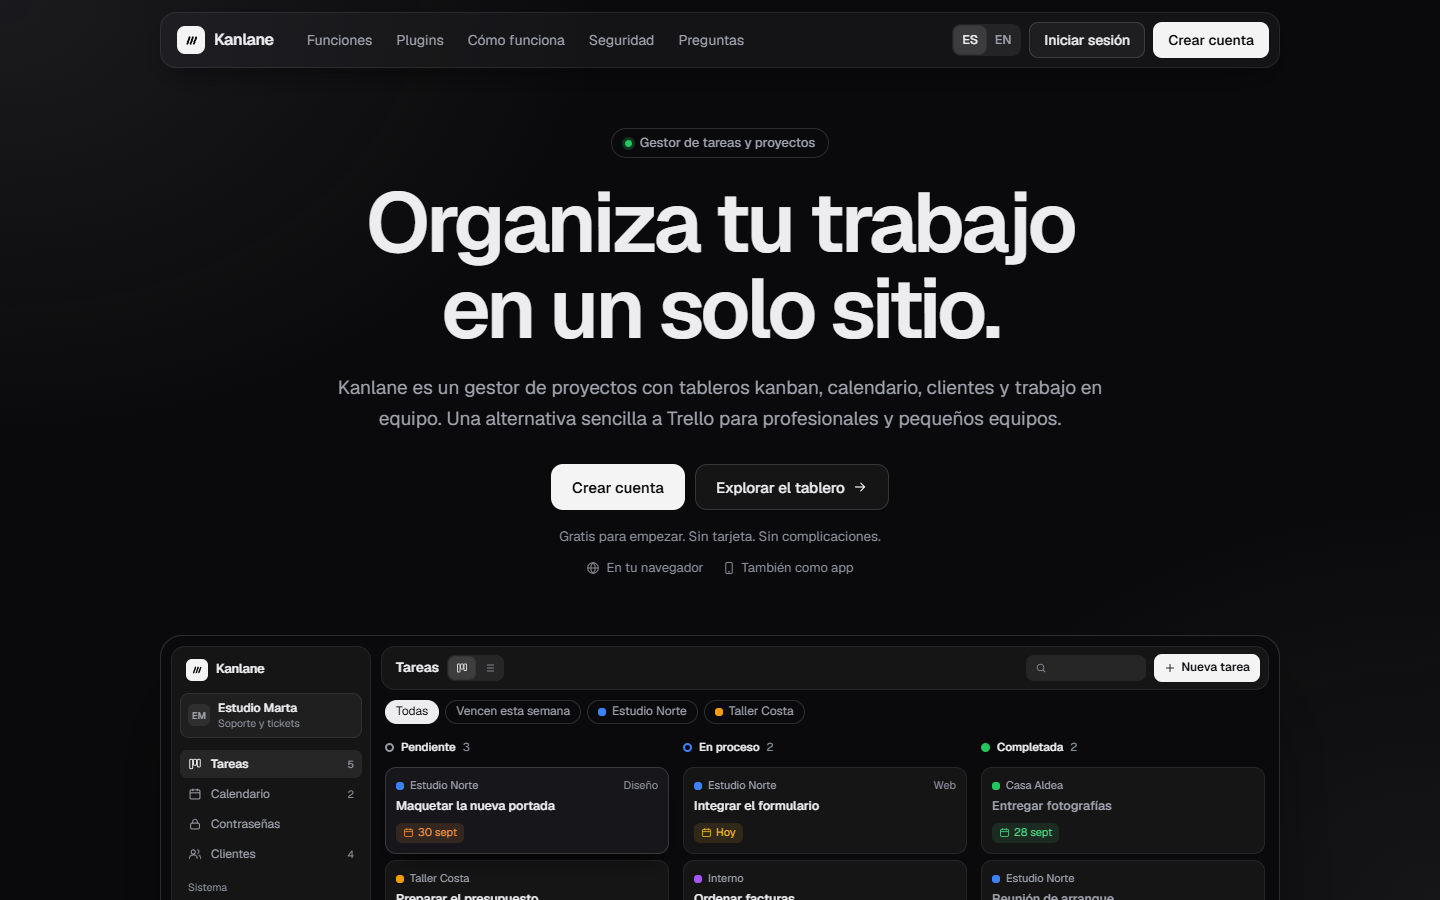
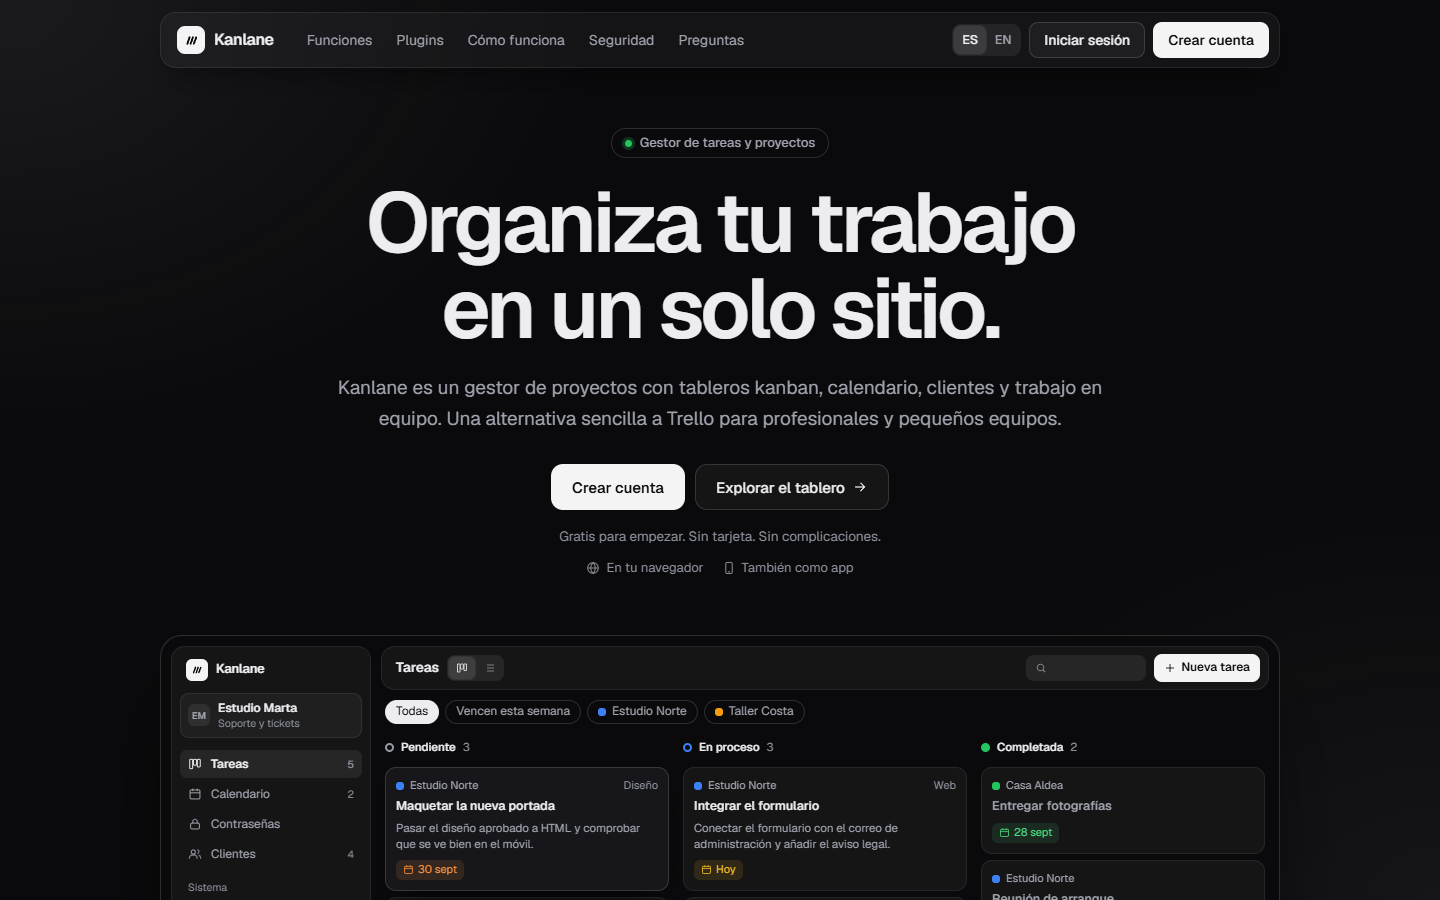
Portada: la ventana del tablero es más alta, con las proporciones de la aplicación

Changed region(s): [[0.25, 0.9022, 0.4375, 1.0], [0.4688, 0.9022, 0.625, 1.0]]

diff --git a/index.html b/index.html
@@ -186,8 +186,8 @@
           <div class="win-bar"><strong>Tareas</strong><span class="win-seg"><i class="on"><svg class="ico" width="12" height="12" aria-hidden="true"><use href="#i-board"/></svg></i><i><svg class="ico" width="12" height="12" aria-hidden="true"><use href="#i-list"/></svg></i></span><span class="win-find"><svg class="ico" width="12" height="12" aria-hidden="true"><use href="#i-search"/></svg></span><span class="win-new"><svg class="ico" width="12" height="12" aria-hidden="true"><use href="#i-plus"/></svg>Nueva tarea</span></div>
           <div class="mini-chips win-chips"><span class="on">Todas</span><span>Vencen esta semana</span><span><i class="cdot norte"></i>Estudio Norte</span><span><i class="cdot costa"></i>Taller Costa</span></div>
           <div class="win-board">
-            <div class="mcol"><span class="mcol-h"><i class="ring"></i>Pendiente <b data-count="0">3</b></span><div class="slot" data-slot="0"><div class="mc mc-move"><span class="mc-top"><i class="cdot norte"></i>Estudio Norte<em>Diseño</em></span><strong>Maquetar la nueva portada</strong><span class="mc-foot"><span class="mpill late"><svg class="ico" width="11" height="11" aria-hidden="true"><use href="#i-calendar"/></svg>30 sept</span></span></div></div><div class="mc"><span class="mc-top"><i class="cdot costa"></i>Taller Costa</span><strong>Preparar el presupuesto</strong><span class="mc-foot"><span class="mpill"><svg class="ico" width="11" height="11" aria-hidden="true"><use href="#i-calendar"/></svg>8 oct</span></span></div><div class="mc"><span class="mc-top"><i class="cdot aldea"></i>Casa Aldea<em>Textos</em></span><strong>Revisar textos de la web</strong><span class="mc-foot"><span class="mpill"><svg class="ico" width="11" height="11" aria-hidden="true"><use href="#i-calendar"/></svg>15 oct</span></span></div></div>
-            <div class="mcol"><span class="mcol-h"><i class="ring proc"></i>En proceso <b data-count="1">2</b></span><div class="slot" data-slot="1"></div><div class="mc"><span class="mc-top"><i class="cdot norte"></i>Estudio Norte<em>Web</em></span><strong>Integrar el formulario</strong><span class="mc-foot"><span class="mpill today"><svg class="ico" width="11" height="11" aria-hidden="true"><use href="#i-calendar"/></svg>Hoy</span></span></div><div class="mc"><span class="mc-top"><i class="cdot interno"></i>Interno</span><strong>Ordenar facturas</strong><span class="mc-foot"><span class="mpill"><svg class="ico" width="11" height="11" aria-hidden="true"><use href="#i-calendar"/></svg>11 oct</span></span></div></div>
+            <div class="mcol"><span class="mcol-h"><i class="ring"></i>Pendiente <b data-count="0">3</b></span><div class="slot" data-slot="0"><div class="mc mc-move"><span class="mc-top"><i class="cdot norte"></i>Estudio Norte<em>Diseño</em></span><strong>Maquetar la nueva portada</strong><small>Pasar el diseño aprobado a HTML y comprobar que se ve bien en el móvil.</small><span class="mc-foot"><span class="mpill late"><svg class="ico" width="11" height="11" aria-hidden="true"><use href="#i-calendar"/></svg>30 sept</span></span></div></div><div class="mc"><span class="mc-top"><i class="cdot costa"></i>Taller Costa</span><strong>Preparar el presupuesto</strong><small>Incluye el mantenimiento mensual y las horas de la tienda.</small><span class="mc-foot"><span class="mpill"><svg class="ico" width="11" height="11" aria-hidden="true"><use href="#i-calendar"/></svg>8 oct</span></span></div><div class="mc"><span class="mc-top"><i class="cdot aldea"></i>Casa Aldea<em>Textos</em></span><strong>Revisar textos de la web</strong><span class="mc-foot"><span class="mpill"><svg class="ico" width="11" height="11" aria-hidden="true"><use href="#i-calendar"/></svg>15 oct</span></span></div><span class="mc-add"><svg class="ico" width="12" height="12" aria-hidden="true"><use href="#i-plus"/></svg>Añadir tarea</span></div>
+            <div class="mcol"><span class="mcol-h"><i class="ring proc"></i>En proceso <b data-count="1">3</b></span><div class="slot" data-slot="1"></div><div class="mc"><span class="mc-top"><i class="cdot norte"></i>Estudio Norte<em>Web</em></span><strong>Integrar el formulario</strong><small>Conectar el formulario con el correo de administración y añadir el aviso legal.</small><span class="mc-foot"><span class="mpill today"><svg class="ico" width="11" height="11" aria-hidden="true"><use href="#i-calendar"/></svg>Hoy</span></span></div><div class="mc"><span class="mc-top"><i class="cdot interno"></i>Interno</span><strong>Ordenar facturas</strong><span class="mc-foot"><span class="mpill"><svg class="ico" width="11" height="11" aria-hidden="true"><use href="#i-calendar"/></svg>11 oct</span></span></div><div class="mc"><span class="mc-top"><i class="cdot costa"></i>Taller Costa<em>Marca</em></span><strong>Aprobar el logotipo</strong><small>Pendiente de que Lucas confirme la versión en negativo.</small><span class="mc-foot"><span class="mpill"><svg class="ico" width="11" height="11" aria-hidden="true"><use href="#i-calendar"/></svg>13 oct</span></span></div></div>
             <div class="mcol"><span class="mcol-h"><i class="ring done"></i>Completada <b data-count="2">2</b></span><div class="slot" data-slot="2"></div><div class="mc is-done"><span class="mc-top"><i class="cdot aldea"></i>Casa Aldea</span><strong>Entregar fotografías</strong><span class="mc-foot"><span class="mpill ok"><svg class="ico" width="11" height="11" aria-hidden="true"><use href="#i-calendar"/></svg>28 sept</span></span></div><div class="mc is-done"><span class="mc-top"><i class="cdot norte"></i>Estudio Norte</span><strong>Reunión de arranque</strong><span class="mc-foot"><span class="mpill ok"><svg class="ico" width="11" height="11" aria-hidden="true"><use href="#i-calendar"/></svg>24 sept</span></span></div></div>
           </div>
         </div>

diff --git a/en/index.html b/en/index.html
@@ -187,8 +187,8 @@
           <div class="win-bar"><strong>Tasks</strong><span class="win-seg"><i class="on"><svg class="ico" width="12" height="12" aria-hidden="true"><use href="#i-board"/></svg></i><i><svg class="ico" width="12" height="12" aria-hidden="true"><use href="#i-list"/></svg></i></span><span class="win-find"><svg class="ico" width="12" height="12" aria-hidden="true"><use href="#i-search"/></svg></span><span class="win-new"><svg class="ico" width="12" height="12" aria-hidden="true"><use href="#i-plus"/></svg>New task</span></div>
           <div class="mini-chips win-chips"><span class="on">All</span><span>Due this week</span><span><i class="cdot norte"></i>North Studio</span><span><i class="cdot costa"></i>Coast Workshop</span></div>
           <div class="win-board">
-            <div class="mcol"><span class="mcol-h"><i class="ring"></i>Pending <b data-count="0">3</b></span><div class="slot" data-slot="0"><div class="mc mc-move"><span class="mc-top"><i class="cdot norte"></i>North Studio<em>Design</em></span><strong>Mock up the new homepage</strong><span class="mc-foot"><span class="mpill late"><svg class="ico" width="11" height="11" aria-hidden="true"><use href="#i-calendar"/></svg>Sep 30</span></span></div></div><div class="mc"><span class="mc-top"><i class="cdot costa"></i>Coast Workshop</span><strong>Prepare the quote</strong><span class="mc-foot"><span class="mpill"><svg class="ico" width="11" height="11" aria-hidden="true"><use href="#i-calendar"/></svg>Oct 8</span></span></div><div class="mc"><span class="mc-top"><i class="cdot aldea"></i>Aldea House<em>Copy</em></span><strong>Review the website copy</strong><span class="mc-foot"><span class="mpill"><svg class="ico" width="11" height="11" aria-hidden="true"><use href="#i-calendar"/></svg>Oct 15</span></span></div></div>
-            <div class="mcol"><span class="mcol-h"><i class="ring proc"></i>In progress <b data-count="1">2</b></span><div class="slot" data-slot="1"></div><div class="mc"><span class="mc-top"><i class="cdot norte"></i>North Studio<em>Web</em></span><strong>Integrate the form</strong><span class="mc-foot"><span class="mpill today"><svg class="ico" width="11" height="11" aria-hidden="true"><use href="#i-calendar"/></svg>Today</span></span></div><div class="mc"><span class="mc-top"><i class="cdot interno"></i>Internal</span><strong>Sort the invoices</strong><span class="mc-foot"><span class="mpill"><svg class="ico" width="11" height="11" aria-hidden="true"><use href="#i-calendar"/></svg>Oct 11</span></span></div></div>
+            <div class="mcol"><span class="mcol-h"><i class="ring"></i>Pending <b data-count="0">3</b></span><div class="slot" data-slot="0"><div class="mc mc-move"><span class="mc-top"><i class="cdot norte"></i>North Studio<em>Design</em></span><strong>Mock up the new homepage</strong><small>Turn the approved design into HTML and check it looks right on mobile.</small><span class="mc-foot"><span class="mpill late"><svg class="ico" width="11" height="11" aria-hidden="true"><use href="#i-calendar"/></svg>Sep 30</span></span></div></div><div class="mc"><span class="mc-top"><i class="cdot costa"></i>Coast Workshop</span><strong>Prepare the quote</strong><small>Includes monthly maintenance and the shop hours.</small><span class="mc-foot"><span class="mpill"><svg class="ico" width="11" height="11" aria-hidden="true"><use href="#i-calendar"/></svg>Oct 8</span></span></div><div class="mc"><span class="mc-top"><i class="cdot aldea"></i>Aldea House<em>Copy</em></span><strong>Review the website copy</strong><span class="mc-foot"><span class="mpill"><svg class="ico" width="11" height="11" aria-hidden="true"><use href="#i-calendar"/></svg>Oct 15</span></span></div><span class="mc-add"><svg class="ico" width="12" height="12" aria-hidden="true"><use href="#i-plus"/></svg>Add task</span></div>
+            <div class="mcol"><span class="mcol-h"><i class="ring proc"></i>In progress <b data-count="1">3</b></span><div class="slot" data-slot="1"></div><div class="mc"><span class="mc-top"><i class="cdot norte"></i>North Studio<em>Web</em></span><strong>Integrate the form</strong><small>Connect the form to the admin email and add the legal notice.</small><span class="mc-foot"><span class="mpill today"><svg class="ico" width="11" height="11" aria-hidden="true"><use href="#i-calendar"/></svg>Today</span></span></div><div class="mc"><span class="mc-top"><i class="cdot interno"></i>Internal</span><strong>Sort the invoices</strong><span class="mc-foot"><span class="mpill"><svg class="ico" width="11" height="11" aria-hidden="true"><use href="#i-calendar"/></svg>Oct 11</span></span></div><div class="mc"><span class="mc-top"><i class="cdot costa"></i>Coast Workshop<em>Brand</em></span><strong>Approve the logo</strong><small>Waiting for Lucas to confirm the negative version.</small><span class="mc-foot"><span class="mpill"><svg class="ico" width="11" height="11" aria-hidden="true"><use href="#i-calendar"/></svg>Oct 13</span></span></div></div>
             <div class="mcol"><span class="mcol-h"><i class="ring done"></i>Done <b data-count="2">2</b></span><div class="slot" data-slot="2"></div><div class="mc is-done"><span class="mc-top"><i class="cdot aldea"></i>Aldea House</span><strong>Deliver the photos</strong><span class="mc-foot"><span class="mpill ok"><svg class="ico" width="11" height="11" aria-hidden="true"><use href="#i-calendar"/></svg>Sep 28</span></span></div><div class="mc is-done"><span class="mc-top"><i class="cdot norte"></i>North Studio</span><strong>Kickoff meeting</strong><span class="mc-foot"><span class="mpill ok"><svg class="ico" width="11" height="11" aria-hidden="true"><use href="#i-calendar"/></svg>Sep 24</span></span></div></div>
           </div>
         </div>

diff --git a/assets/css/landing.css b/assets/css/landing.css
@@ -130,8 +130,8 @@ a.lang-opt:hover{color:var(--ink);}
 .win-seg i.on{background:var(--seg-on);color:var(--ink);box-shadow:0 0 0 1px var(--line);}
 .win-find{display:grid;place-items:center;width:120px;height:26px;margin-left:auto;border-radius:8px;background:var(--surface-2);color:var(--ink-faint);justify-items:start;padding-left:9px;}
 .win-new{display:inline-flex;align-items:center;gap:5px;height:28px;padding:0 10px;border-radius:8px;background:var(--accent-solid);color:var(--accent-ink);font-weight:550;white-space:nowrap;}
-/* Alto fijo: caben tres tarjetas por columna, así la ventana no cambia de tamaño cuando la tarea avanza. */
-.win-board{display:grid;grid-template-columns:repeat(3,minmax(0,1fr));gap:14px;padding:0 4px 6px;align-items:start;height:306px;overflow:hidden;}
+/* Alto fijo y generoso, con las proporciones de la aplicación: la ventana no cambia de tamaño cuando la tarea avanza. */
+.win-board{display:grid;grid-template-columns:repeat(3,minmax(0,1fr));gap:14px;padding:0 4px 6px;align-items:start;height:clamp(440px, 46vw, 560px);overflow:hidden;}
 
 /* Piezas de las ventanas de ejemplo (portada y recorrido). */
 .mcol{display:flex;flex-direction:column;gap:7px;min-width:0;}
@@ -147,6 +147,8 @@ a.lang-opt:hover{color:var(--ink);}
 .mc-top em{margin-left:auto;font-style:normal;color:var(--ink-faint);}
 .mc strong{font-size:12.5px;font-weight:550;line-height:1.3;}
 .mc.is-done strong{color:var(--ink-soft);}
+.mc small{font-size:11.5px;line-height:1.4;color:var(--ink-soft);display:-webkit-box;-webkit-line-clamp:2;-webkit-box-orient:vertical;overflow:hidden;}
+.mc-add{display:flex;align-items:center;gap:6px;height:28px;padding:0 8px;color:var(--ink-faint);}
 .mc-foot{display:flex;align-items:center;gap:6px;margin-top:3px;}
 .mpill{display:inline-flex;align-items:center;gap:4px;height:20px;padding:0 7px;border-radius:6px;background:var(--surface-2);font-size:11px;color:var(--ink-soft);white-space:nowrap;}
 .mpill.late{background:var(--late-bg);color:var(--late);}
@@ -528,6 +530,7 @@ html.js-motion .swap{animation:swap .35s cubic-bezier(.16,1,.3,1);}
   .win{grid-template-columns:minmax(0,1fr);margin-top:40px;border-radius:18px;}
   .win-side,.win-chips{display:none;}
   .win-board{height:auto;min-height:250px;}
+  .mc small,.mc-add{display:none;}
   .win-find{width:28px;padding:0;justify-items:center;}
   .win-board,.mini-board{gap:8px;}
   .mc{padding:8px;}
